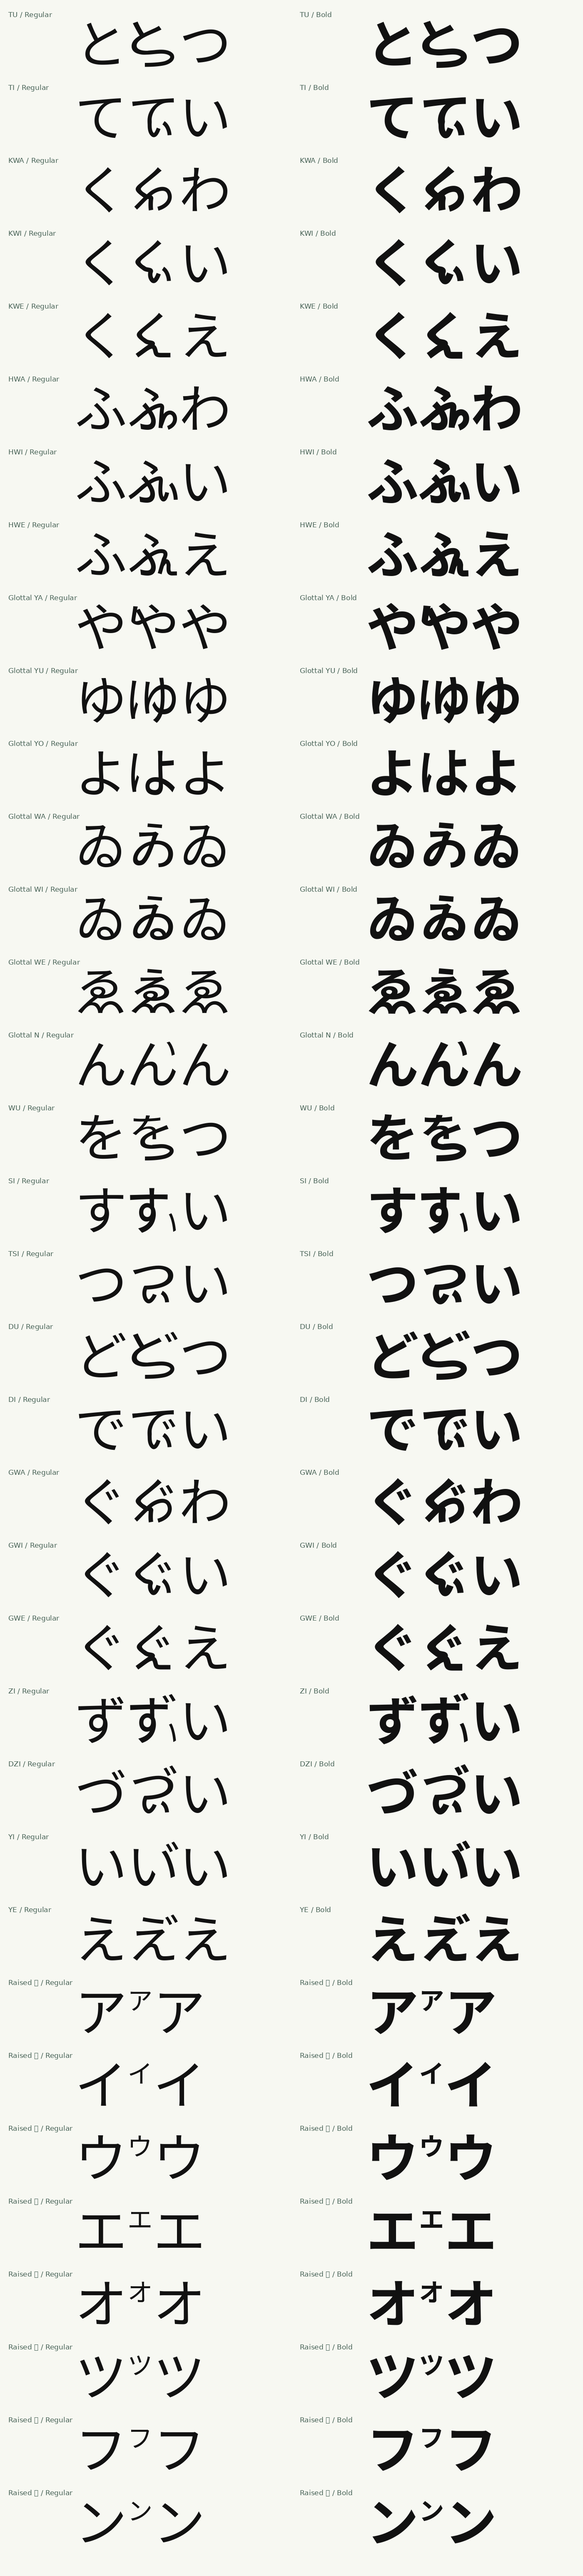
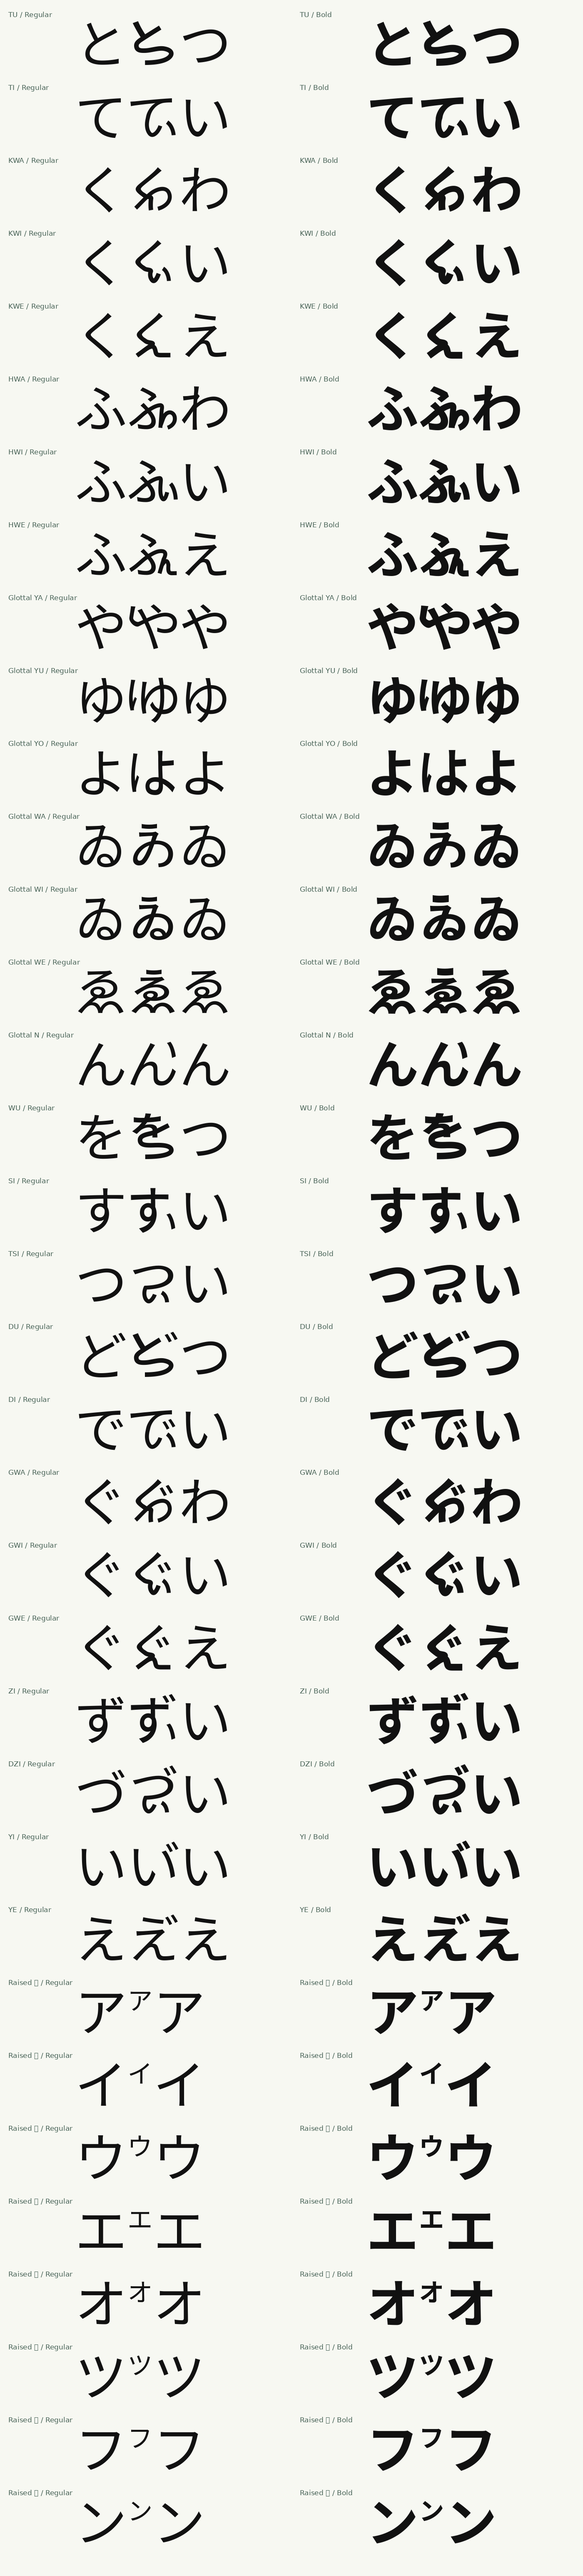
Refine Sans Okinawan stroke balance and joins

diff --git a/scripts/okinawan_sans.py b/scripts/okinawan_sans.py
@@ -15,7 +15,7 @@ from serif import instance, contours, transform
 
 @lru_cache(maxsize=8)
 def source(weight):
-    return instance('NotoSansJP', weight, set(map(ord, 'くてとつをふいわえやゆよゐゑんすはこぐでどずづアイウエオツフン')))
+    return instance('NotoSansJP', weight, set(map(ord, 'くてとつをふいぃわえやゆよゐゑんすはこぐでどずづアイウエオツフン')))
 
 def stroke(path, width):
     p=pathops.Path(); parse_path(path,p.getPen())
@@ -39,6 +39,7 @@ def attach(native, path, width, start):
 
 def drawings(weight):
     f=source(weight); optical=source(min(900,weight+100))
+    reduced=source(weight+200); yu_source=source(weight+50)
     # Main kana stem widths; Bold is a separate native master, not an offset.
     w=76 if weight==400 else 116
     topology={'く':[30],'て':[37],'と':[31,8],'つ':[28],'を':[31,14,31],
@@ -67,19 +68,23 @@ def drawings(weight):
     # One uninterrupted diagonal/bowl stroke, with a separate upright.
     out[0xF454]=[attach(ku,'M 375 260 C 419 224 517 245 500 198 C 494 155 488 50 500 -20',kw,(375,260)),
         s('M 205 18 C 302 110 392 217 506 307 C 630 399 790 429 842 316 C 907 172 793 51 633 7')]
-    te=cut_keep(rings('て')[0],1,290,'high')
-    out[0xF452]=[attach(te,'M 418 216 C 420 164 418 75 478 27 C 522 -10 568 85 591 151',w,(418,216)),
-                 s('M 684 257 C 758 210 795 109 801 20')]
-    # Retain the original open return, then continue into a shallow lower bowl.
-    tr=rings('と',optical)[0]
-    upper=move(tr[18:]+tr[:10],sx=.91,sy=.78,dx=-100,dy=190)
-    out[0xF450]=[native('と',[1],sx=.91,sy=.78,dx=-100,dy=190,font=optical),
-        attach(upper,'M 409 209 C 536 215 655 244 764 210 C 928 155 851 28 682 -4 C 580 -24 451 -30 329 -30',w,(409,209))]
-    wr=rings('を',optical)[2]
-    upper=move(wr[19:]+wr[:12],sx=.88,sy=.79,dx=10,dy=188)
-    out[0xF465]=[native('を',[0],sx=.9,sy=.69,dx=20,dy=242),
-        native('を',[1],sx=.83,sy=.73,dx=25,dy=236),
-        attach(upper,'M 480 188 C 583 191 680 218 776 181 C 921 133 848 24 680 -7 C 575 -28 456 -33 340 -33',w,(480,188))]
+    te=cut_keep(rings('て')[0],1,360,'high')
+    out[0xF452]=[attach(te,'M 408 300 C 395 219 398 117 456 49 C 519 -27 623 85 659 199',w,(408,300)),
+                 s('M 790 270 C 867 215 907 109 915 20')]
+    # Keep full stroke width through the return and lower bowl. Compressing
+    # the source outline vertically made its horizontal sections too light.
+    bowl_width=88 if weight==400 else 138
+    tu_tail=12 if weight==400 else 22
+    wu_tail=-1 if weight==400 else 9
+    out[0xF450]=[native('と',[1],sx=.91,sy=.78,dx=-100,dy=190,font=reduced),
+        s(f'M 620 685 C 529 630 415 559 310 491 C 224 435 163 400 163 340 '
+          f'C 163 245 245 240 329 243 C 458 247.6 587 301 699 280 '
+          f'C 839 254 864 184 799 120 C 717 41 530 {tu_tail} 329 {tu_tail}',bowl_width)]
+    out[0xF465]=[native('を',[0],sx=.9,sy=.69,dx=20,dy=272,font=reduced),
+        native('を',[1],sx=.83,sy=1,dx=25,dy=60,font=optical),
+        s(f'M 790 600 C 690 550 609 510 529 470 C 449 430 240 430 240 320 '
+          f'C 240 210 365 216 547 221 C 709 225.45 819 204 839 143 '
+          f'C 867 46 656 {wu_tail} 340 {wu_tail}',88 if weight==400 else 124)]
     # TSI carries the bowl into the left stroke of い.
     ts=rings('つ',optical)[0]
     ts=move(ts[:14]+[line(ts[14][0],ts[15][0])]+ts[15:],sx=.91,sy=.7,dx=0,dy=245)
@@ -87,28 +92,37 @@ def drawings(weight):
     ts=ts[15:]+ts[:14]
     out[0xF469]=[attach(ts,'M 301 285 C 260 190 275 75 337 30 C 388 -10 459 94 479 153',w,(301,285)),
                  s('M 613 191 C 682 153 709 76 715 4')]
-    fu=[native('ふ',[0],sx=.9,dx=8),native('ふ',[1],sx=.82,dx=8,font=optical)]
+    # Keep both fu components at their native size and native weight. Position
+    # changes make space for the vowel without changing their stroke contrast.
+    fu=[native('ふ',[0],dx=-100),native('ふ',[1],dx=-100)]
+    fu_width=w
     left='M 68 62 C 204 144 279 239 384 312 C 484 382 574 430 646 432 '
-    out[0xF45A]=fu+[s(left+'C 683 429 683 398 672 337 L 646 -2'),
-        s('M 647 35 C 691 136 711 259 788 285 C 844 316 917 270 923 192 C 935 85 852 24 786 0')]
-    out[0xF45B]=fu+[s(left+'C 674 429 668 394 665 340 C 651 185 657 80 704 30 C 745 0 776 104 789 160'),
-        s('M 853 324 C 913 257 949 132 953 20')]
-    out[0xF45C]=fu+[s(left+'C 755 440 761 370 710 278 L 630 0'),
-        s('M 675 155 C 739 267 784 267 801 163 C 795 68 793 6 862 3 L 960 5')]
+    out[0xF45A]=fu+[s(left+'C 683 429 683 398 672 337 L 646 -2',fu_width),
+        s('M 647 35 C 691 136 711 259 788 285 C 844 316 917 270 923 192 C 935 85 852 24 786 0',fu_width)]
+    out[0xF45B]=fu+[s(left+'C 674 429 668 394 665 340 C 651 185 657 80 704 30 C 745 0 776 104 789 160',fu_width),
+        s('M 853 324 C 913 257 949 132 953 20',fu_width)]
+    out[0xF45C]=fu+[s(left+'C 755 440 761 370 710 278 L 630 0',fu_width),
+        s('M 675 155 C 739 267 784 267 801 163 C 795 68 793 6 862 3 L 960 5',fu_width)]
     # Glottal YA joins native は's left stroke to native や's arm.
-    arm=move(cut_keep(rings('や')[2],0,250,'high'),dx=30)
-    neck=move(cut_keep(rings('は')[2],1,500,'high'),dx=-25)
-    out[0xF45D]=[native('や',[0,1],dx=30),O.draw([join(neck,arm)])]
-    for cp,ch in ((0xF45E,'ゆ'),(0xF45F,'よ')):
-        out[cp]=[native('は',[2],sx=.74,sy=.9,dx=-25,dy=45,font=optical),
-                 native(ch,sx=.76,dx=237,font=optical)]
+    arm=move(cut_keep(rings('や')[2],0,180,'high'),dx=120)
+    neck=move(cut_keep(rings('は')[2],1,550,'high'),dx=-20)
+    out[0xF45D]=[native('や',[0,1],dx=120),O.draw([join(neck,arm)])]
+    out[0xF45E]=[native('は',[2],sx=.74,sy=.72,dx=-25,dy=200,font=optical),
+                  native('ゆ',sx=.88,dx=175,font=yu_source)]
+    out[0xF45F]=[native('は',[2],sx=.74,sy=.9,dx=-25,dy=45,font=optical),
+                  native('よ',sx=.76,dx=237,font=optical)]
     wi=rings('ゐ',optical)[0]
     wa=wi[:33]+[line(wi[33][0],wi[49][0])]+wi[49:]
+    body_sy=.83 if weight==400 else .79
     for cp,ch in ((0xF460,None),(0xF461,'ゐ'),(0xF462,'ゑ')):
-        body=O.draw([move(wa,sx=.94,sy=.83,dx=20)]) if ch is None else native(ch,sx=.94,sy=.83,dx=20,font=optical)
-        out[cp]=[body,s('M 376 769 L 652 746',w*.88)]
-    out[0xF463]=[native('ん'),native('い',[1],sx=.56,sy=.49,dx=405,dy=474,font=optical)]
-    out[0xF467]=[native('す',sx=.86,dx=15,font=optical),native('い',[1],sx=.48,sy=.65,dx=527,dy=-131,font=optical)]
+        body=O.draw([move(wa,sx=.94,sy=body_sy,dx=20)]) if ch is None else native(ch,sx=.94,sy=body_sy,dx=20,font=optical)
+        out[cp]=[body,native('こ',[0],sx=.55,dx=224 if cp==0xF462 else 134,dy=85 if weight==400 else 95)]
+    # Native small-i has its own terminal and curvature. Uniform reduction
+    # preserves that shape, using an optical donor to keep the mark legible.
+    dot=native('ぃ',[1],sx=.65,sy=.65,font=reduced)
+    db=BoundsPen(None);dot.replay(db);x0,y0,x1,y1=db.bounds
+    out[0xF463]=[native('ん'),transform(dot,(1,0,0,1,945-x1,804-y1))]
+    out[0xF467]=[native('す',sx=.86,dx=15,font=optical),transform(dot,(1,0,0,1,945-x1,-y0))]
     # Optical centering applies to base forms; voiced pairs retain native spacing.
     for cp,parts in out.items():
         b=BoundsPen(None)

diff --git a/scripts/sans_okinawan.py b/scripts/sans_okinawan.py
@@ -47,8 +47,8 @@ def build():
         'Kana, Latin, punctuation and new Okinawan drawings derive from Noto Sans JP.\n'
         'Retained combining marks derive from FRB Taiwanese Kana.\n'
         'Regular and Bold use the native Noto masters at weights 400 and 700; reduced\n'
-        'components use optical donor weights 500 and 800. The 27 Funatsu forms and\n'
-        'eight raised katakana use the same private-use conventions as GenZui Serif.\n'
+        'components use optical donor weights 450–600 and 750–900. The 27 Funatsu forms\n'
+        'and eight raised katakana use the same private-use conventions as GenZui Serif.\n'
         'No outlines were imported from the fonts defining those mappings.\n\n'
         'Licensed under SIL Open Font License 1.1. Original notices are retained.\n')
     records=[]
@@ -86,19 +86,24 @@ def source_text(e):
 
 def proof():
     sections=[]
+    previous=all((OUT/'previous'/f'{style}.woff2').exists() for style in ('Regular','Bold'))
     for e in ENTRIES:
         text=''.join(chr(int(c,16)) for c in e['output']);src=source_text(e)
         cards=[]
         for style,weight in [('Regular',400),('Bold',700)]:
             context=src[0]+text+src[-1] if len(src)>1 else src+text+src
-            cards.append(f'<article style="--weight:{weight}"><h3>{style}</h3><div class="context">{context}</div><div class="sizes"><span style="font-size:24px">{context}</span><span style="font-size:48px">{context}</span></div></article>')
+            history=(f'<details><summary>前の字形と比較</summary><div class="previous">{context}</div></details>' if previous else '')
+            cards.append(f'<article style="--weight:{weight}"><h3>{style}</h3><div class="context">{context}</div><div class="sizes"><span style="font-size:24px">{context}</span><span style="font-size:48px">{context}</span></div>{history}</article>')
         sections.append(f'<section><h2>{html.escape(e["label"])}</h2><div class="columns">{"".join(cards)}</div></section>')
     sentences=[]
     for style,weight in [('Regular',400),('Bold',700)]:
         sentences.append(f'<article style="--weight:{weight}"><h3>{style}</h3>'+''.join(f'<p class="sentence" contenteditable="true">{html.escape(compose(s["text"]))}</p>' for s in SENTENCES)+'</article>')
     page='''<!doctype html><html lang="ja"><meta charset="utf-8"><meta name="viewport" content="width=device-width,initial-scale=1"><title>GenZui Sans Okinawan</title><link rel="stylesheet" href="genzui-sans-okinawan.css"><style>
-*{box-sizing:border-box}body{margin:0;background:#f7f8f2;color:#233d34;font-family:system-ui,sans-serif}main{max-width:1440px;margin:auto;padding:40px 24px}h1{font-size:32px;margin-bottom:8px}header p{color:#64746b}section{margin:30px 0}h2{font-size:19px}h3{font-size:15px;margin:0 0 25px}.columns{display:grid;grid-template-columns:1fr 1fr;gap:18px}article{background:white;border:1px solid #d5ded8;border-radius:10px;padding:24px;overflow:hidden}.context,.sizes,.sentence{font-family:'GenZui Sans Okinawan';font-weight:var(--weight);font-synthesis:none}.context{font-size:clamp(60px,8.9vw,128px);line-height:1.2;border-bottom:1px solid #d5ded8;white-space:nowrap}.sizes{display:flex;gap:25px;align-items:baseline;margin-top:30px}.sentence{font-size:30px;line-height:1.9;overflow-wrap:anywhere}a{color:inherit}footer{font-size:13px;line-height:1.8}@media(max-width:650px){main{padding:24px 12px}article{padding:14px}.columns{gap:10px}.context{font-size:8.5vw}.sizes{flex-direction:column;gap:10px}.sizes span{font-size:20px!important}.sentence{font-size:21px}}
+*{box-sizing:border-box}body{margin:0;background:#f7f8f2;color:#233d34;font-family:system-ui,sans-serif}main{max-width:1440px;margin:auto;padding:40px 24px}h1{font-size:32px;margin-bottom:8px}header p{color:#64746b}section{margin:30px 0}h2{font-size:19px}h3{font-size:15px;margin:0 0 25px}.columns{display:grid;grid-template-columns:1fr 1fr;gap:18px}article{background:white;border:1px solid #d5ded8;border-radius:10px;padding:24px;overflow:hidden}.context,.sizes,.sentence,.previous{font-family:'GenZui Sans Okinawan';font-weight:var(--weight);font-synthesis:none}.context{font-size:clamp(60px,8.9vw,128px);line-height:1.2;border-bottom:1px solid #d5ded8;white-space:nowrap}.previous{font-family:'GenZui Sans Okinawan Previous';font-size:clamp(60px,8.9vw,128px);line-height:1.2;white-space:nowrap}details{margin-top:24px;border-top:1px solid #d5ded8;padding-top:16px}summary{cursor:pointer;font-size:13px;color:#64746b}.sizes{display:flex;gap:25px;align-items:baseline;margin-top:30px}.sentence{font-size:30px;line-height:1.9;overflow-wrap:anywhere}a{color:inherit}footer{font-size:13px;line-height:1.8}@media(max-width:650px){main{padding:24px 12px}article{padding:14px}.columns{gap:10px}.context,.previous{font-size:8.5vw}.sizes{flex-direction:column;gap:10px}.sizes span{font-size:20px!important}.sentence{font-size:21px}}
 </style><main><header><h1>GenZui Sans Okinawan</h1><p>Regular / Bold · 船津式沖縄文字 27字・上付きカタカナ 8字</p><p>字形見本：元の仮名 / 沖縄文字 / 元の仮名</p></header>'''
+    if previous:
+        faces=''.join(f"@font-face{{font-family:'GenZui Sans Okinawan Previous';src:url('previous/{style}.woff2');font-weight:{weight};font-display:swap}}" for style,weight in [('Regular',400),('Bold',700)])
+        page=page.replace('</style>','</style><style>'+faces+'</style>',1)
     page+='<section><h2>組見本</h2><div class="columns">'+''.join(sentences)+'</div></section>'+''.join(sections)
     page+='<footer>組見本の出典：<a href="https://repository.ninjal.ac.jp/record/3226/files/20210312Uchinaaguchi_e.pdf">沖縄語辞典</a>、121・123頁。<br>私用領域の文字を含みます。対応フォントと入力方法が必要です。</footer></main></html>'
     (OUT/'index.html').write_text(page)
@@ -124,6 +129,8 @@ def package():
     names=[f'{PREFIX}-{style}.{ext}' for style in ('Regular','Bold') for ext in ('ttf','woff2')]
     names+=['genzui-sans-okinawan.css','index.html','README.txt','NOTICE.txt','OFL.txt','FRB-OFL.txt',
             'FRB-README.md','Unicode-LICENSE.txt','source-manifest.json','sources.json','checks.json','okinawan-mappings.json']
+    if all((OUT/'previous'/f'{style}.woff2').exists() for style in ('Regular','Bold')):
+        names += [f'previous/{style}.woff2' for style in ('Regular','Bold')]
     archive=ROOT/'dist'/f'{PREFIX}-{VERSION}.zip';archive.parent.mkdir(exist_ok=True)
     with ZipFile(archive,'w',compression=ZIP_DEFLATED) as z:
         for name in names:z.write(OUT/name,name)

diff --git a/scripts/check_sans_okinawan_browser.py b/scripts/check_sans_okinawan_browser.py
@@ -9,9 +9,10 @@ registry=json.loads((Path.home()/'.config/genzui/windows-browsers.json').read_te
 s=Path('scripts/browser/serif-chromium.ps1').read_text()
 s=s.replace('__ROOT__',q(win)).replace('__BINARY__',q(registry['chrome.exe']['path'])).replace('__EXTRA__','').replace('__PAGE__',q('http://localhost:8790/genzui-sans-okinawan/'))
 a=s.index(' $report=@{}');b=s.index(" $report.version=",a)
-s=s[:a]+""" $report=Evaluate '(()=>{const assert=(v,m)=>{if(!v)throw Error(m)};assert(document.querySelectorAll(".context").length===70,"all35bothweights");assert(document.querySelectorAll("[contenteditable]").length===4,"sentences");document.querySelectorAll(".context,.sentence").forEach((e,i)=>{e.id="probe"+i});return {status:"passed",forms:35,styles:2,sentences:4,mobile:null,version:null,fonts:{verified:0}}})()'
+s=s[:a]+""" Evaluate '[...document.querySelectorAll("details")].forEach(e=>e.open=true)'|Out-Null
+ $report=Evaluate '(()=>{const assert=(v,m)=>{if(!v)throw Error(m)};assert(document.querySelectorAll(".context").length===70,"all35bothweights");assert(document.querySelectorAll("[contenteditable]").length===4,"sentences");document.querySelectorAll(".context,.sentence,.previous").forEach((e,i)=>{e.id="probe"+i});return {status:"passed",forms:35,styles:2,sentences:4,previous:document.querySelectorAll(".previous").length,mobile:null,version:null,fonts:{verified:0}}})()'
  $doc=Call-CDP 'DOM.getDocument'
- foreach($probe in (Evaluate '[...document.querySelectorAll(".context,.sentence")].map(e=>e.id)')){
+ foreach($probe in (Evaluate '[...document.querySelectorAll(".context,.sentence,.previous")].map(e=>e.id)')){
   $node=Call-CDP 'DOM.querySelector' @{nodeId=$doc.root.nodeId;selector=('#'+$probe)}
   $fonts=@((Call-CDP 'CSS.getPlatformFontsForNode' @{nodeId=$node.nodeId}).fonts)
   if($fonts.Count -eq 0){throw ('No rendered font in '+$probe)}
@@ -20,6 +21,7 @@ s=s[:a]+""" $report=Evaluate '(()=>{const assert=(v,m)=>{if(!v)throw Error(m)};a
  }
  Call-CDP 'Emulation.setDeviceMetricsOverride' @{width=390;height=1000;deviceScaleFactor=1;mobile=$false}|Out-Null
  $report.mobile=Evaluate '(()=>{if(document.documentElement.scrollWidth>390)throw Error("overflow");if(getComputedStyle(document.querySelector(".columns")).gridTemplateColumns.split(" ").length!==2)throw Error("columns");return "passed"})()'
+ Evaluate '[...document.querySelectorAll("details")].forEach(e=>e.open=false)'|Out-Null
  Call-CDP 'Emulation.setDeviceMetricsOverride' @{width=1450;height=1550;deviceScaleFactor=1;mobile=$false}|Out-Null
 """+s[b:]
 

diff --git a/scripts/check_sans_okinawan.py b/scripts/check_sans_okinawan.py
@@ -35,7 +35,16 @@ def geometry(weight):
         clearances[f'U+{cp:04X}']=round(gap,2)
     for cp,a,b in [(0xF469,0,1),(0xF45A,1,3)]:
         assert pathops.op(shape([recipes[cp][a]]),shape([recipes[cp][b]]),pathops.PathOp.INTERSECTION).area<.01,(weight,hex(cp))
-    return clearances
+    component_gaps={}
+    # Marks, detached vowels and the glottal prefix must retain whitespace in
+    # Bold as well as Regular; the former top marks nearly touched their bases.
+    for cp in (0xF460,0xF461,0xF462,0xF463,0xF467,0xF45E,0xF452):
+        a,b=recipes[cp][:1],recipes[cp][1:]
+        assert pathops.op(shape(a),shape(b),pathops.PathOp.INTERSECTION).area<.01,(weight,hex(cp))
+        gap=float(cKDTree(points(a)).query(points(b))[0].min())
+        assert gap>=35,(weight,hex(cp),gap)
+        component_gaps[f'U+{cp:04X}']=round(gap,2)
+    return clearances,component_gaps
 
 def check():
     (OUT/'checks.json').unlink(missing_ok=True)
@@ -95,8 +104,9 @@ def check():
         assert record['base_sha256']==digest(BASE/f'GenZuiSans-{style}.ttf')
         assert record['full_sha256']==digest(full_path)
         for ext in ('ttf','woff2'):assert record[ext+'_sha256']==digest(OUT/f'{PREFIX}-{style}.{ext}')
+        dakuten_gaps,component_gaps=geometry(400 if style=='Regular' else 700)
         records.append(dict(record,full_encoded_characters=len(fc),preserved_glyphs=len(old_order),forms=35,
-                            dakuten_clearance_units=geometry(400 if style=='Regular' else 700)))
+                            dakuten_clearance_units=dakuten_gaps,component_clearance_units=component_gaps))
         print(style,'passed: baseline, full font, subset and horizontal/vertical shaping',flush=True)
     (OUT/'checks.json').write_text(json.dumps(dict(status='passed',faces=records),indent=2)+'\n')
 

diff --git a/research/sans-okinawan.md b/research/sans-okinawan.md
@@ -9,8 +9,10 @@ characters.
 ## Drawings
 
 The drawings use Noto Sans JP's native Regular and Bold masters at weights
-400 and 700. Reduced components use weights 500 and 800 for optical
-compensation. New joining strokes follow cubic skeletons with flat Sans
+400 and 700. Reduced components use weights 450–600 and 750–900 for optical
+compensation. The ふ head and body retain their native dimensions and weight.
+TU and WU use continuous strokes through their lower turns, and glottal
+WA/WI/WE use a curved native こ stroke for the upper mark. New joining strokes follow cubic skeletons with flat Sans
 terminals. Their widths are set separately for each weight. The drawings
 reuse no Serif outlines and apply no blanket outline expansion.
 
@@ -40,7 +42,10 @@ and sentence, plus the two-column layout at a 390-pixel viewport.
 
 The output directory contains the subset TTF/WOFF2 files, CSS and an editable
 proof. The proof shows all 35 forms in two columns, with native kana beside
-each drawing, small-size comparisons and dictionary sentence samples.
+each drawing, small-size comparisons and dictionary sentence samples. When
+`previous/Regular.woff2` and `previous/Bold.woff2` are present, each card also
+includes an expandable comparison with that earlier drawing. The package
+includes these comparison fonts when available.
 `full/` contains the extended full-family faces. The subset ZIP is written to
 `dist/GenZuiSansOkinawan-0.104.zip` after validation.
 
@@ -60,7 +65,8 @@ also shaped in both directions. It checks the subset repertoire, family
 metadata, all 35 forms, native combining sequences and sentence samples,
 including TTF/WOFF2 parity. It verifies exact non-intersection of dakuten and
 their bases, an additional sampled clearance margin, and separation of the
-TSI and HWA strokes that should remain distinct.
+TSI and HWA strokes that should remain distinct. Detached glottal marks and
+vowel strokes have additional minimum-clearance checks in both weights.
 
 These checks establish structural correctness and preservation of existing
 characters. Visual review of the joins, counters and balance remains part of
